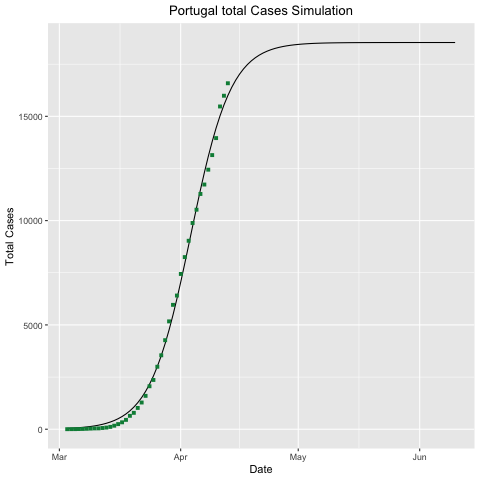
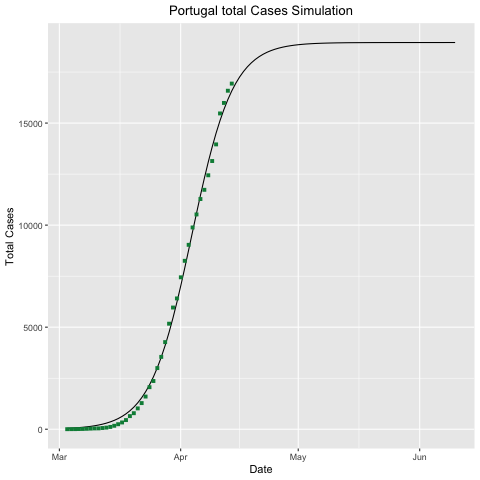
Dailly commit

diff --git a/README.md b/README.md
@@ -11,29 +11,30 @@ I'll keep this repo with the graphs daily updated.
 
 *Obtained with the script* `propagationMap.R`
 
-### Updated World Values - 2020/04/13
+### Updated World Values - 2020/04/14
 __Total Deaths per Country - worst 10__
 
 |geoId | deaths|
 |:-----|------:|
-|US    |  22108|
-|IT    |  19901|
-|ES    |  16972|
-|FR    |  14393|
-|UK    |  10612|
-|IR    |   4474|
-|BE    |   3600|
+|US    |  23649|
+|IT    |  20465|
+|ES    |  17489|
+|FR    |  14967|
+|UK    |  11329|
+|IR    |   4585|
+|BE    |   3903|
 |CN    |   3345|
-|DE    |   2799|
-|NL    |   2737|
+|DE    |   2969|
+|NL    |   2823|
 
-__Total Death Count__: 113513
+__Total Death Count__: 118854
 
-__Portugal in Detail at 2020/04/13__ *sourced from https://www.worldometers.info/*
+__Portugal in Detail at 2020/04/14__ *sourced from https://www.worldometers.info/*
 
-|Country,Other |TotalCases |NewCases |TotalDeaths | NewDeaths|TotalRecovered |ActiveCases |Serious,Critical |Tot Cases/1M pop |Deaths/1M pop |TotalTests |Tests/1M pop |Continent |
-|:-------------|:----------|:--------|:-----------|---------:|:--------------|:-----------|:----------------|:----------------|:-------------|:----------|:------------|:---------|
-|Portugal      |16,585     |         |504         |        NA|277            |15,804      |228              |1,627            |49            |163,616    |16,046       |Europe    |
+|Country,Other |TotalCases |NewCases |TotalDeaths |NewDeaths |TotalRecovered |ActiveCases |Serious,Critical |Tot Cases/1M pop |Deaths/1M pop |TotalTests |Tests/1M pop |Continent |
+|:-------------|:----------|:--------|:-----------|:---------|:--------------|:-----------|:----------------|:----------------|:-------------|:----------|:------------|:---------|
+|Portugal      |17,448     |+514     |567         |+32       |347            |16,534      |218              |1,711            |56            |182,707    |17,918       |Europe    |
+
 
 
 ### Scripts
